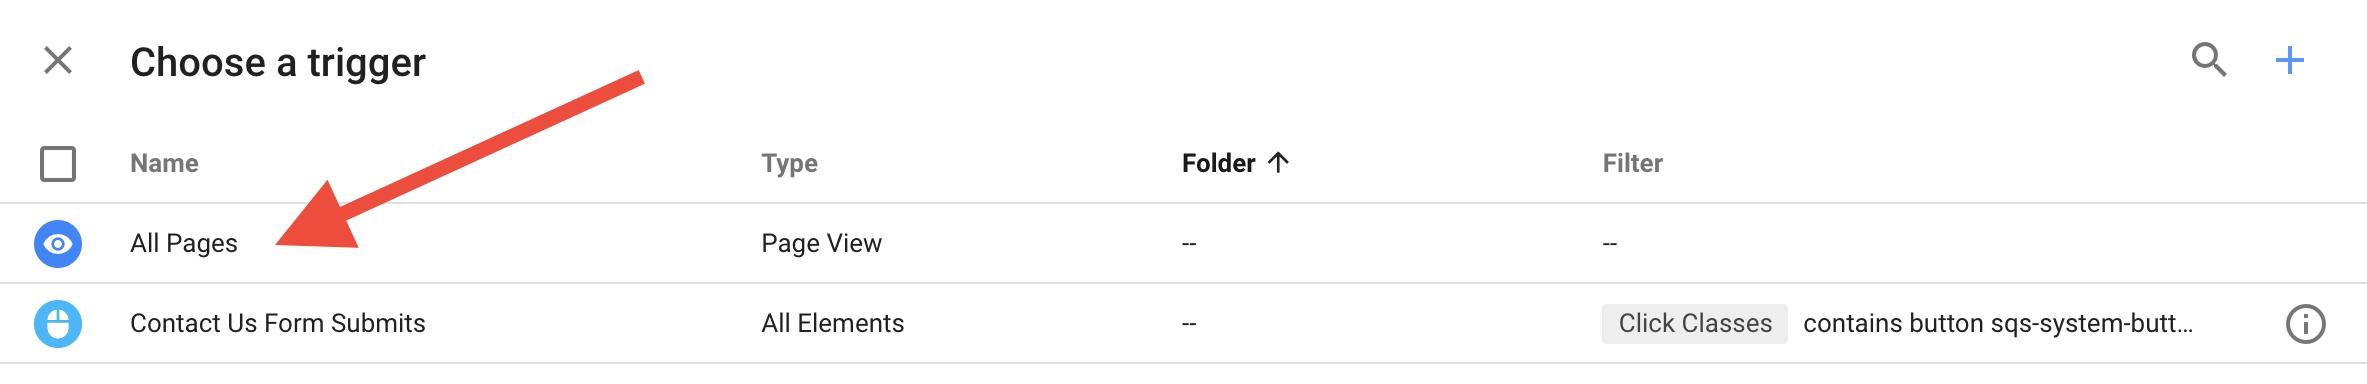
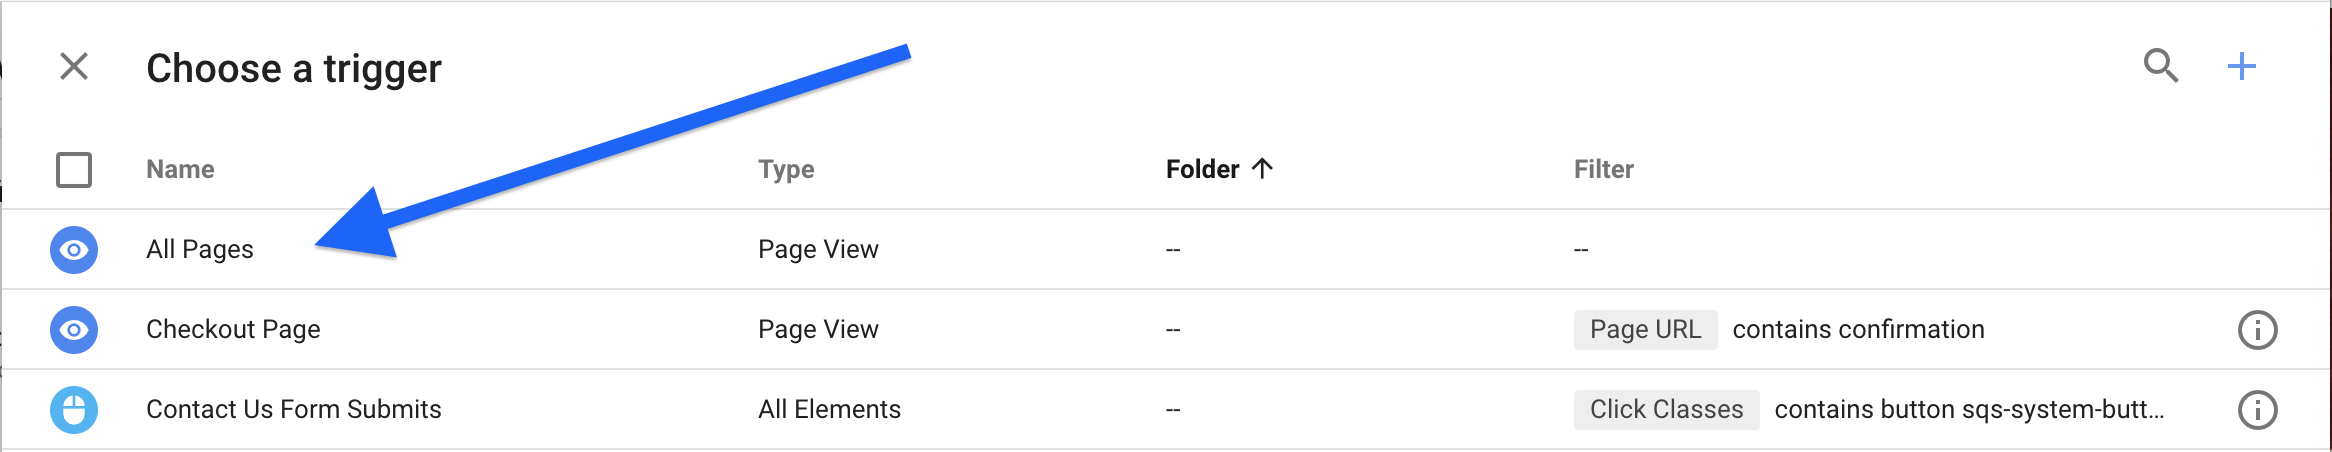
BAM-566 adding implementation walkthrough

diff --git a/docs/conf.py b/docs/conf.py
@@ -54,9 +54,9 @@ author = 'Narrativ'
 # built documents.
 #
 # The short X.Y version.
-version = '1.1.0'
+version = '1.2.0'
 # The full version, including alpha/beta/rc tags.
-release = '1.1.0'
+release = '1.2.0'
 
 # The language for content autogenerated by Sphinx. Refer to documentation
 # for a list of supported languages.

diff --git a/docs/tagmerchant.rst b/docs/tagmerchant.rst
@@ -98,7 +98,7 @@ just leave it out if you choose not to include the data.
      - integer
      - Required. The number of this product purchased in this order.
 
-Full Example (remember, replace ACCOUNT NAME with your account name)
+Full Example (remember, replace "ACCOUNT NAME" with your Narrativ account name)
 
 What you see below is just an example. You cannot copy and paste it as is. Insert the check out
 information from your own page into our data layer using Javascript before loading the Narrativ tag.
@@ -107,30 +107,28 @@ information from your own page into our data layer using Javascript before loadi
 
     <!-- begin NARRATIV jstag -->
     <script type="text/javascript">
-        var products = [
-            {
-                product_id: 'A101',
-                product_name: 'Widget 1',
-                product_category: 'Electronics > Audio > Audio Accessories > MP3 Player Accessories',
-                product_price: 42.00,
-                product_quantity: 5
-            }, {
-                product_id: 'A104',
-                product_name: 'Widget 2',
-                product_category: 'Electronics > Audio > Audio Accessories > MP3 Player Accessories',
-                product_price: 3.50,
-                product_quantity: 1
-            }
-        ]
+        var purchased = window.dataLayer[3]['OrderItems'];
+        var productsPurchased = [];
+        var orderTotal = 0;
+        for (var i = 0; i < purchased.length; i++) {
+          productsPurchased.push({
+            product_id: purchased[i].ItemID,
+            product_name: purchased[i].ItemName,
+            product_category: purchased[i].ItemCategory,
+            product_price: purchased[i].ItemPrice,
+            product_quantity: purchased[i].ItemQuantity
+          });
+          orderTotal += product_price;
+        }
         window.BAMX_EVENT_DATA = {
             page_type: 'checkout',
-            user_id: '1234',
-            products_purchased: products,
-            order_id: '470',
-            order_value: 213.50,
-            currency: 'USD',
+            user_id: {{UserID}},
+            is_new_visitor: {{RegisteredCustomer}},
+            products_purchased: productsPurchased,
+            order_id: {{OrderID}},
+            order_value: orderTotal,
+            currency: {{CurrencyCode}}
         };
-
         (function (account) {
             try {
               var b = document.createElement("script");
@@ -144,11 +142,43 @@ information from your own page into our data layer using Javascript before loadi
     </script>
     <!-- end NARRATIV jstag -->
 
+Below is an example of a snippet that uses a minimum purchased checkout tag. This is used if you do not store order information in your data layer.
+
+::
+
+  <!-- begin NARRATIV jstag -->
+  <script type="text/javascript">
+      var minimumPurchased = [{
+          product_price = {{ItemPrice}},
+          product_quantity = 1
+      }]
+      window.BAMX_EVENT_DATA = {
+          page_type: 'checkout',
+          user_id: {{UserID}},
+          is_new_visitor: {{RegisteredCustomer}},
+          products_purchased: minimumPurchased,
+          order_id: {{OrderID}},
+          order_value: {{ItemPrice}},
+          currency: {{CurrencyCode}}
+      };
+      (function (account) {
+          try {
+            var b = document.createElement("script");
+            b.type = "text/javascript";
+            b.src = "//static.narrativ.com/tags/" + account + ".js";
+            b.async = true;
+            var a = document.getElementsByTagName("script")[0];
+            a.parentNode.insertBefore(b, a);
+          } catch (e) {}
+      }("ACCOUNT NAME"));
+  </script>
+  <!-- end NARRATIV jstag -->
+
 
 Adding Information for the Page View Tag
 ------------
 
-The page view tag goes on every page except the checkout page. Remember to change ACCOUNT NAME to your account name.
+The page view tag goes on every page except the checkout page. Remember to change "ACCOUNT NAME" to your Narrativ account name.
 
 *window.BAMX_EVENT_DATA*
 
@@ -173,24 +203,100 @@ information into our data layer using Javascript before loading the Narrativ tag
 
 ::
 
-    <!-- begin NARRATIV jstag -->
-    <script type="text/javascript">
-        window.BAMX_EVENT_DATA = {
-            user_email: 'email@gmail.com',
-            user_id: '1234'
-        }
-        (function (account) {
-            try {
-                var b = document.createElement("script");
-                b.type = "text/javascript";
-                b.src = "//static.narrativ.com/tags/" + account + ".js";
-                b.async = true;
-                var a = document.getElementsByTagName("script")[0];
-                a.parentNode.insertBefore(b, a);
-            } catch (e) {}
-        }("ACCOUNT NAME"));
-    </script>
-    <!-- end NARRATIV jstag -->
+  <!-- begin NARRATIV jstag -->
+  <script type="text/javascript">
+      window.BAMX_EVENT_DATA = {
+          user_email: {{UserEmail}},
+          user_id: {{UserID}}
+      }
+      (function (account) {
+          try {
+              var b = document.createElement("script");
+              b.type = "text/javascript";
+              b.src = "//static.narrativ.com/tags/" + account + ".js";
+              b.async = true;
+              var a = document.getElementsByTagName("script")[0];
+              a.parentNode.insertBefore(b, a);
+          } catch (e) {}
+      }("ACCOUNT NAME"));
+  </script>
+  <!-- end NARRATIV jstag -->
+
+Google Tag Manager Walkthrough
+------------
+
+Below is a walkthrough for implementing the Narrativ pixel using a "Custom HTML" tag in Google Tag Manager.
+Start by navigating to your Google Tag Manager Dashboard.
+
+
+- Select "Tap Configuration" to begin making a new pixel.
+
+.. image:: _static/pixel_implementation_screenshots/1_tap_configuration.png
+
+- Select "Custom HTML" to open a text field to copy and paste the above code. Make sure you replace "ACCOUNT NAME" with your Narrativ account name.
+
+.. image:: _static/pixel_implementation_screenshots/2_choose_custom_html.png
+
+- Enter the code from the "Page View Tag" snippet (See the section before this). Replace the content of "BAMX_EVENT_DATA" with the relevant data from your data layer.
+
+.. image:: _static/pixel_implementation_screenshots/3_enter_tag_html.png
+
+- Select "All Pages" as the correct trigger for this "Page View Tag."
+
+.. image:: _static/pixel_implementation_screenshots/4_select_trigger.png
+
+- Name the Tag "Narrativ Page Impression" and double check that the trigger is set to "All Pages"
+
+.. image:: _static/pixel_implementation_screenshots/5_final_product.png
+
+- For the "Check Out Pixel", create a new tag and open the text field.
+
+.. image:: _static/pixel_implementation_screenshots/checkout_1_open_configuration.png
+
+- This example is using a dummy data layer. You will have to customize "var purchased" to point at how you access the order content in your data layer.
+
+.. image:: _static/pixel_implementation_screenshots/checkout_2_confirm_code_product_info.png
+
+- If you do not have checkout product information available in your data layer then use "var minimumPurchased" instead and set it equal to the price of the checkout.
+
+.. image:: _static/pixel_implementation_screenshots/checkout_2.1_confirm_code_minimum_purchased.png
+
+- Add box under "Triggering" to add a trigger for this tag.
+
+.. image:: _static/pixel_implementation_screenshots/checkout_3_add_trigger.png
+
+- If you don’t already have a trigger for checkout pages, then it’s easy to create one!
+
+.. image:: _static/pixel_implementation_screenshots/checkout_4_add_confirmation_page_trigger.png
+
+- The below example has a series of triggers based off of common URL types for checkout or confirmation pages. (E.g. narrativ.com/checkout/ will trigger the "Checkout Page" option). Replace "checkout" with whatever word your site uses on checkout pages. Remember, you only need one trigger!
+
+.. image:: _static/pixel_implementation_screenshots/checkout_4.1_add_confirmation_rules.png
+
+- Double check the tag name, make sure you’ve updated the code with the information on your checkout page, and make sure you’ve selected the correct trigger.
+
+.. image:: _static/pixel_implementation_screenshots/checkout_5_double_check.png
+
+- Make sure that the tag(s) are showing up in the "Tag" tab.
+
+.. image:: _static/pixel_implementation_screenshots/submit_1_tag_confirmation.png
+
+- Preview the changes made and fix any errors that pop up in the window.
+
+.. image:: _static/pixel_implementation_screenshots/submit_2_review.png
+
+- Click the "Submit" button to save your changes (this step is not final)
+
+.. image:: _static/pixel_implementation_screenshots/submit_3_submit_changes.png
+
+- Double check that everything you worked on is in this submission. Name the submission something like "Adding Narrativ Pixel" so that it’s easy to find if you need to go back and debug any issues in the future.
+
+.. image:: _static/pixel_implementation_screenshots/submit_4_title_the_changes.png
+
+
+You did it!!
+
+If you have any issues during this process then reach out to your Narrativ contact or hello@narrativ.com
 
 .. _Google category: https://support.google.com/merchants/answer/6324436?hl=en
 .. _ISO 4217: https://www.iso.org/iso-4217-currency-codes.html
